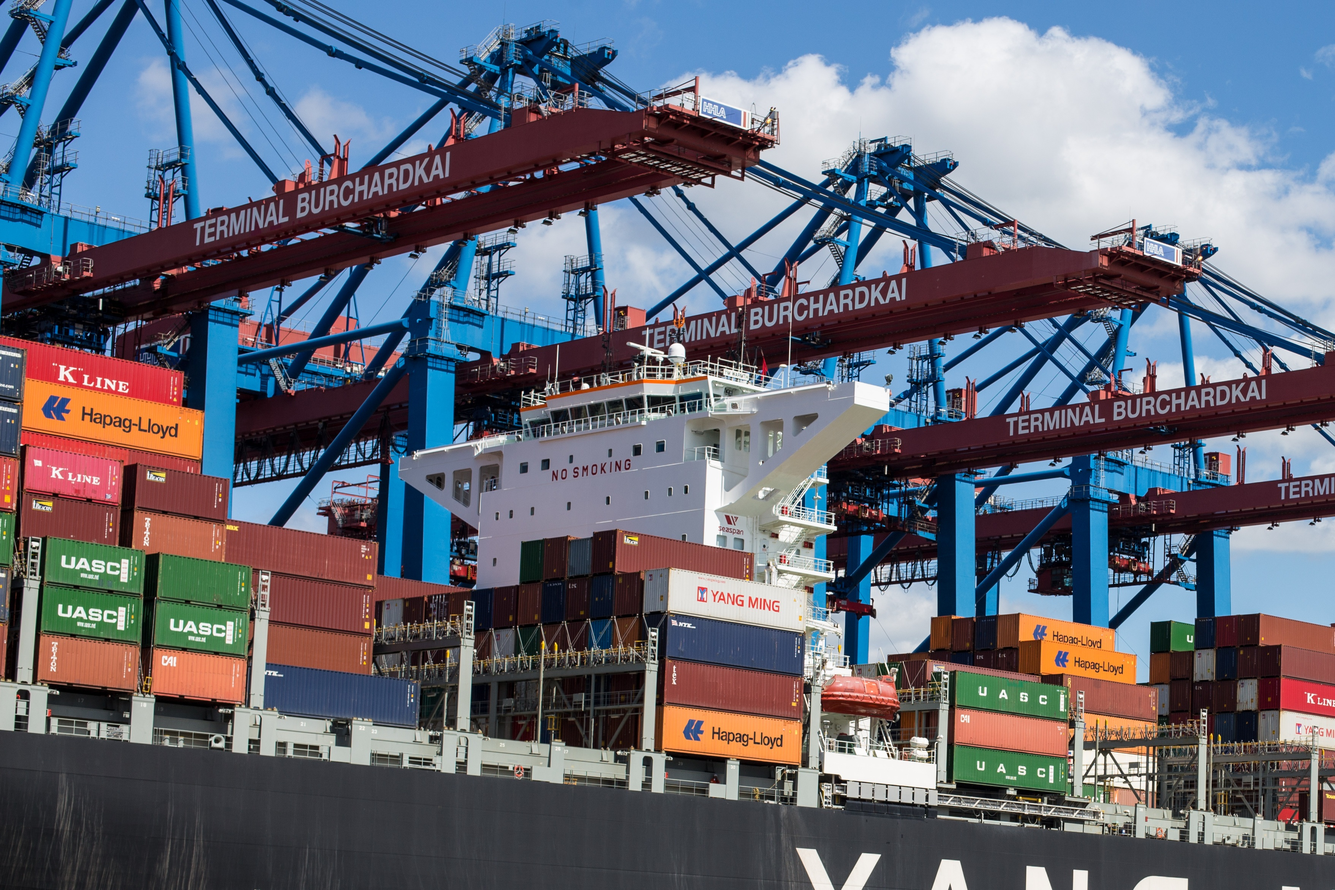
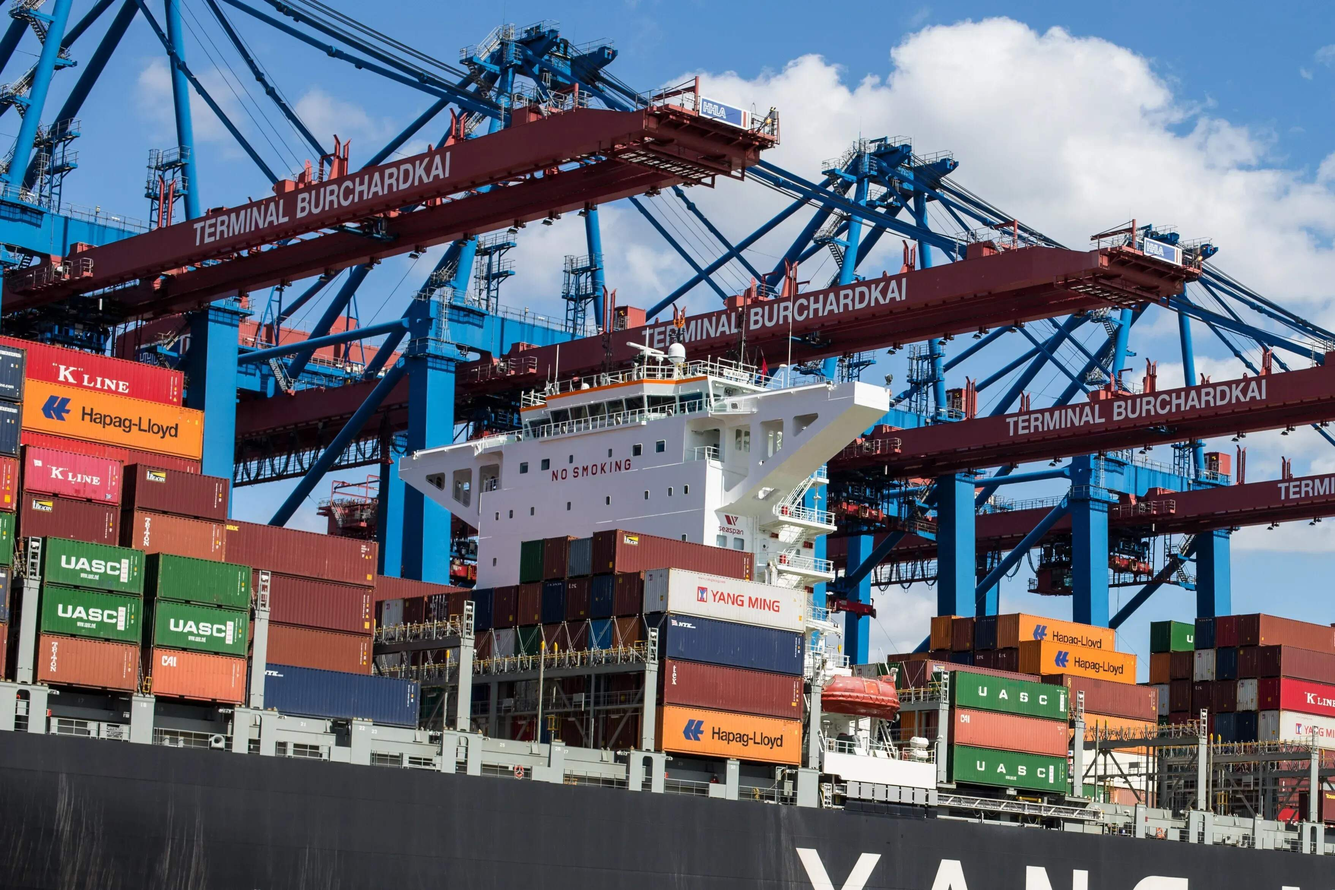
fixed image sizes

Changed region(s): [[0.062, 0.4673, 0.1241, 0.4985]]

diff --git a/app/optimize-images.js b/app/optimize-images.js
@@ -1,0 +1,54 @@
+import sharp from "sharp";
+import fs from "fs";
+import path from "path";
+import {fileURLToPath} from "url";
+
+const __filename = fileURLToPath(import.meta.url);
+const __dirname = path.dirname(__filename);
+
+const PUBLIC_DIR = path.join(__dirname, "public");
+
+async function optimizeDirectory(directory) {
+  const files = fs.readdirSync(directory);
+
+  for (const file of files) {
+    const fullPath = path.join(directory, file);
+    const stat = fs.statSync(fullPath);
+
+    if (stat.isDirectory()) {
+      await optimizeDirectory(fullPath);
+      continue;
+    }
+
+    const ext = path.extname(file).toLowerCase();
+
+    if (![".jpg", ".jpeg", ".png", ".webp"].includes(ext)) continue;
+
+    console.log(`Optimizing ${fullPath}`);
+
+    try {
+      const buffer = await sharp(fullPath)
+        .rotate()
+        .jpeg({
+          quality: 80,
+          mozjpeg: true,
+        })
+        .png({
+          quality: 80,
+          compressionLevel: 9,
+        })
+        .webp({
+          quality: 80,
+        })
+        .toBuffer();
+
+      fs.writeFileSync(fullPath, buffer);
+
+      console.log(`✔ Optimized ${file}`);
+    } catch (err) {
+      console.error(`✘ Failed ${file}`, err.message);
+    }
+  }
+}
+
+optimizeDirectory(PUBLIC_DIR);
